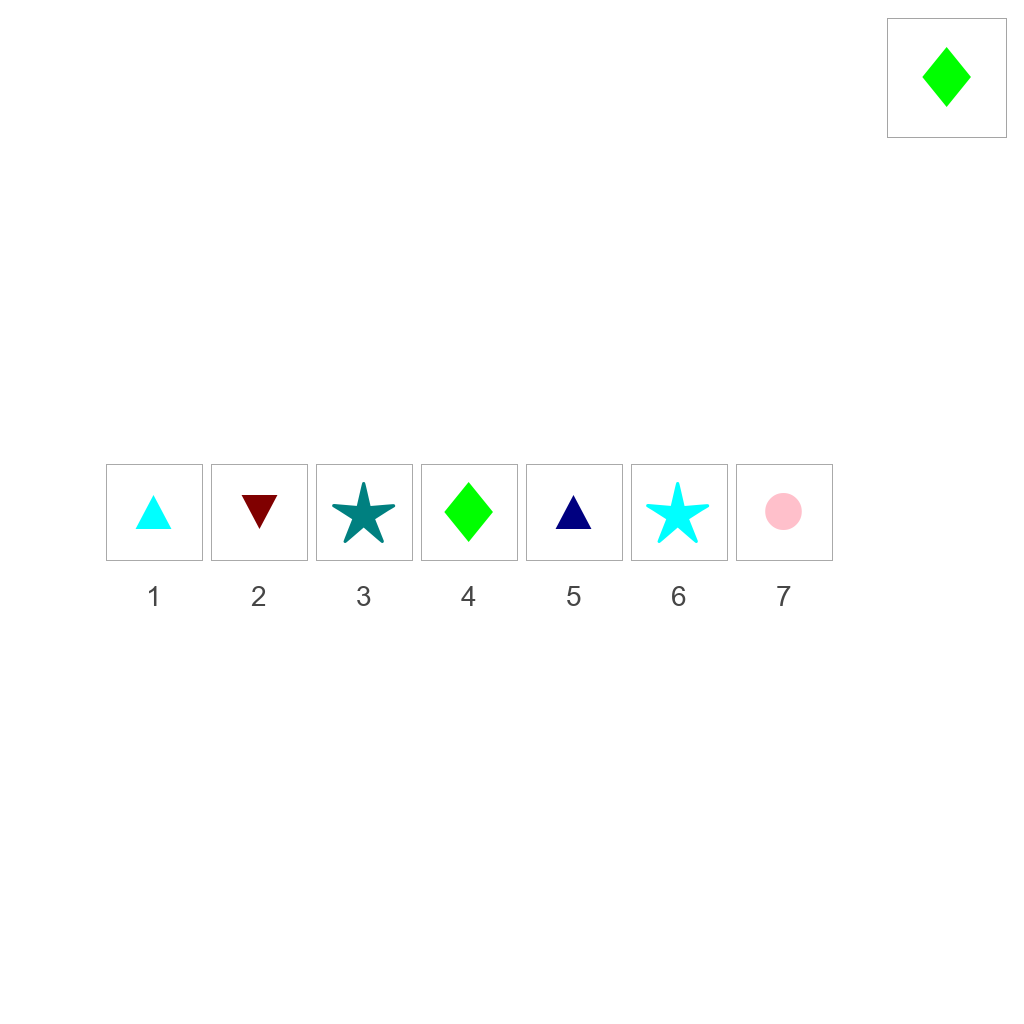
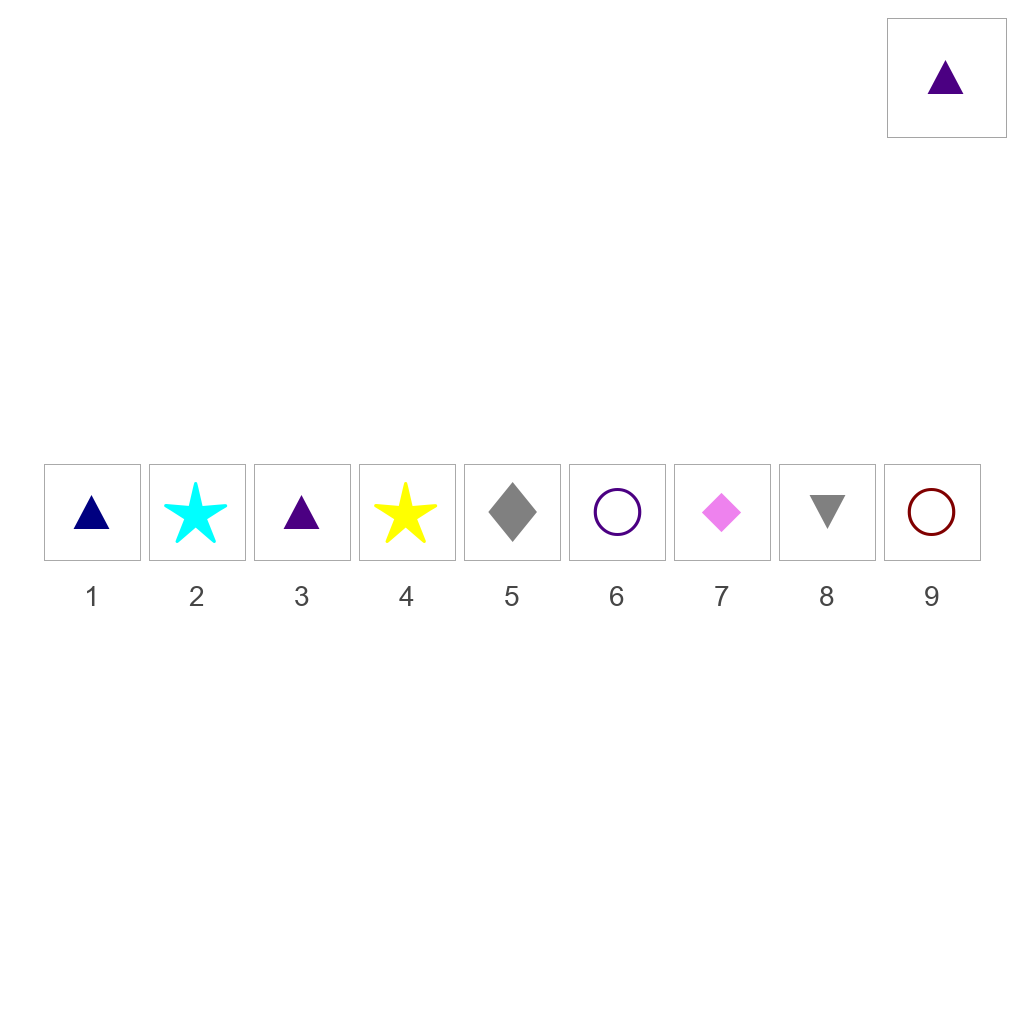
Center O-60 slot rows and refresh sample assets.
Use center-based start coordinates for slot rows to avoid left bias and regenerate the sample preview files.

Made-with: Cursor

diff --git a/src/generator.py b/src/generator.py
@@ -42,6 +42,12 @@ class SymbolSubstituteGenerator(BaseGenerator):
         self.all_color_names = list(ALL_COLORS.keys())
         self.rainbow_color_names = list(RAINBOW_COLORS.keys())
 
+    def _centered_start_x(self, center_x: int, slot_count: int, spacing: int) -> int:
+        """Return x of the first slot center so the row is centered."""
+        if slot_count <= 1:
+            return center_x
+        return int(round(center_x - ((slot_count - 1) * spacing) / 2.0))
+
     def generate_task_pair(self, task_id: str) -> TaskPair:
         """Generate one symbol substitution task with colored symbols."""
         # Generate initial sequence (now with colors, allowing duplicate symbol types)
@@ -128,8 +134,7 @@ class SymbolSubstituteGenerator(BaseGenerator):
         # Calculate symbol spacing
         symbol_size = self.config.symbol_size
         spacing = symbol_size + 20
-        total_width = len(sequence) * spacing - 20
-        start_x = (width - total_width) // 2
+        start_x = self._centered_start_x(width // 2, len(sequence), spacing)
         center_y = height // 2
         symbol_center_y = center_y
 
@@ -302,8 +307,7 @@ class SymbolSubstituteGenerator(BaseGenerator):
         symbol_size = self.config.symbol_size
         spacing = symbol_size + 20
         slot_count = max(len(initial_seq), len(final_seq))
-        total_width = slot_count * spacing - 20
-        fixed_start_x = (width - total_width) // 2  # Fixed for entire animation
+        fixed_start_x = self._centered_start_x(width // 2, slot_count, spacing)
 
         # Show initial sequence (using fixed position)
         frames.extend(
